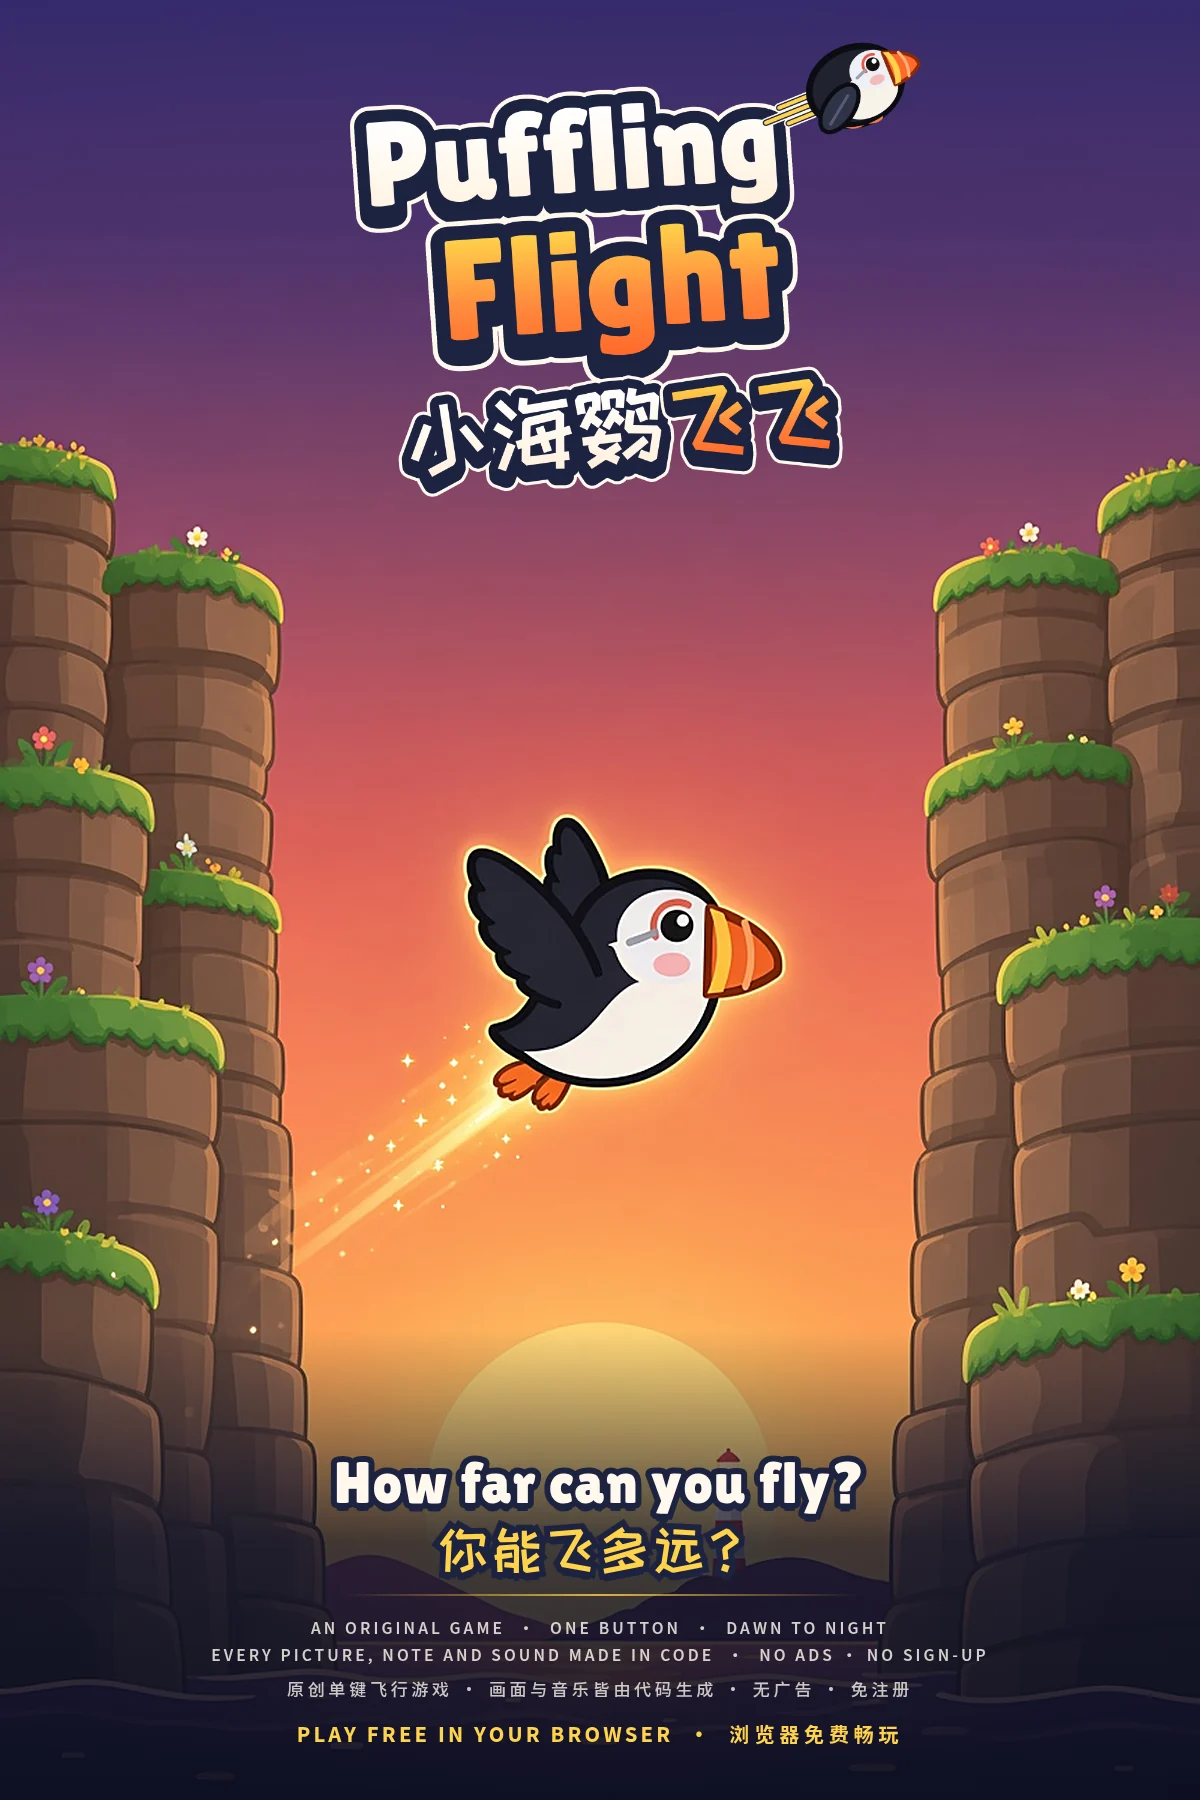
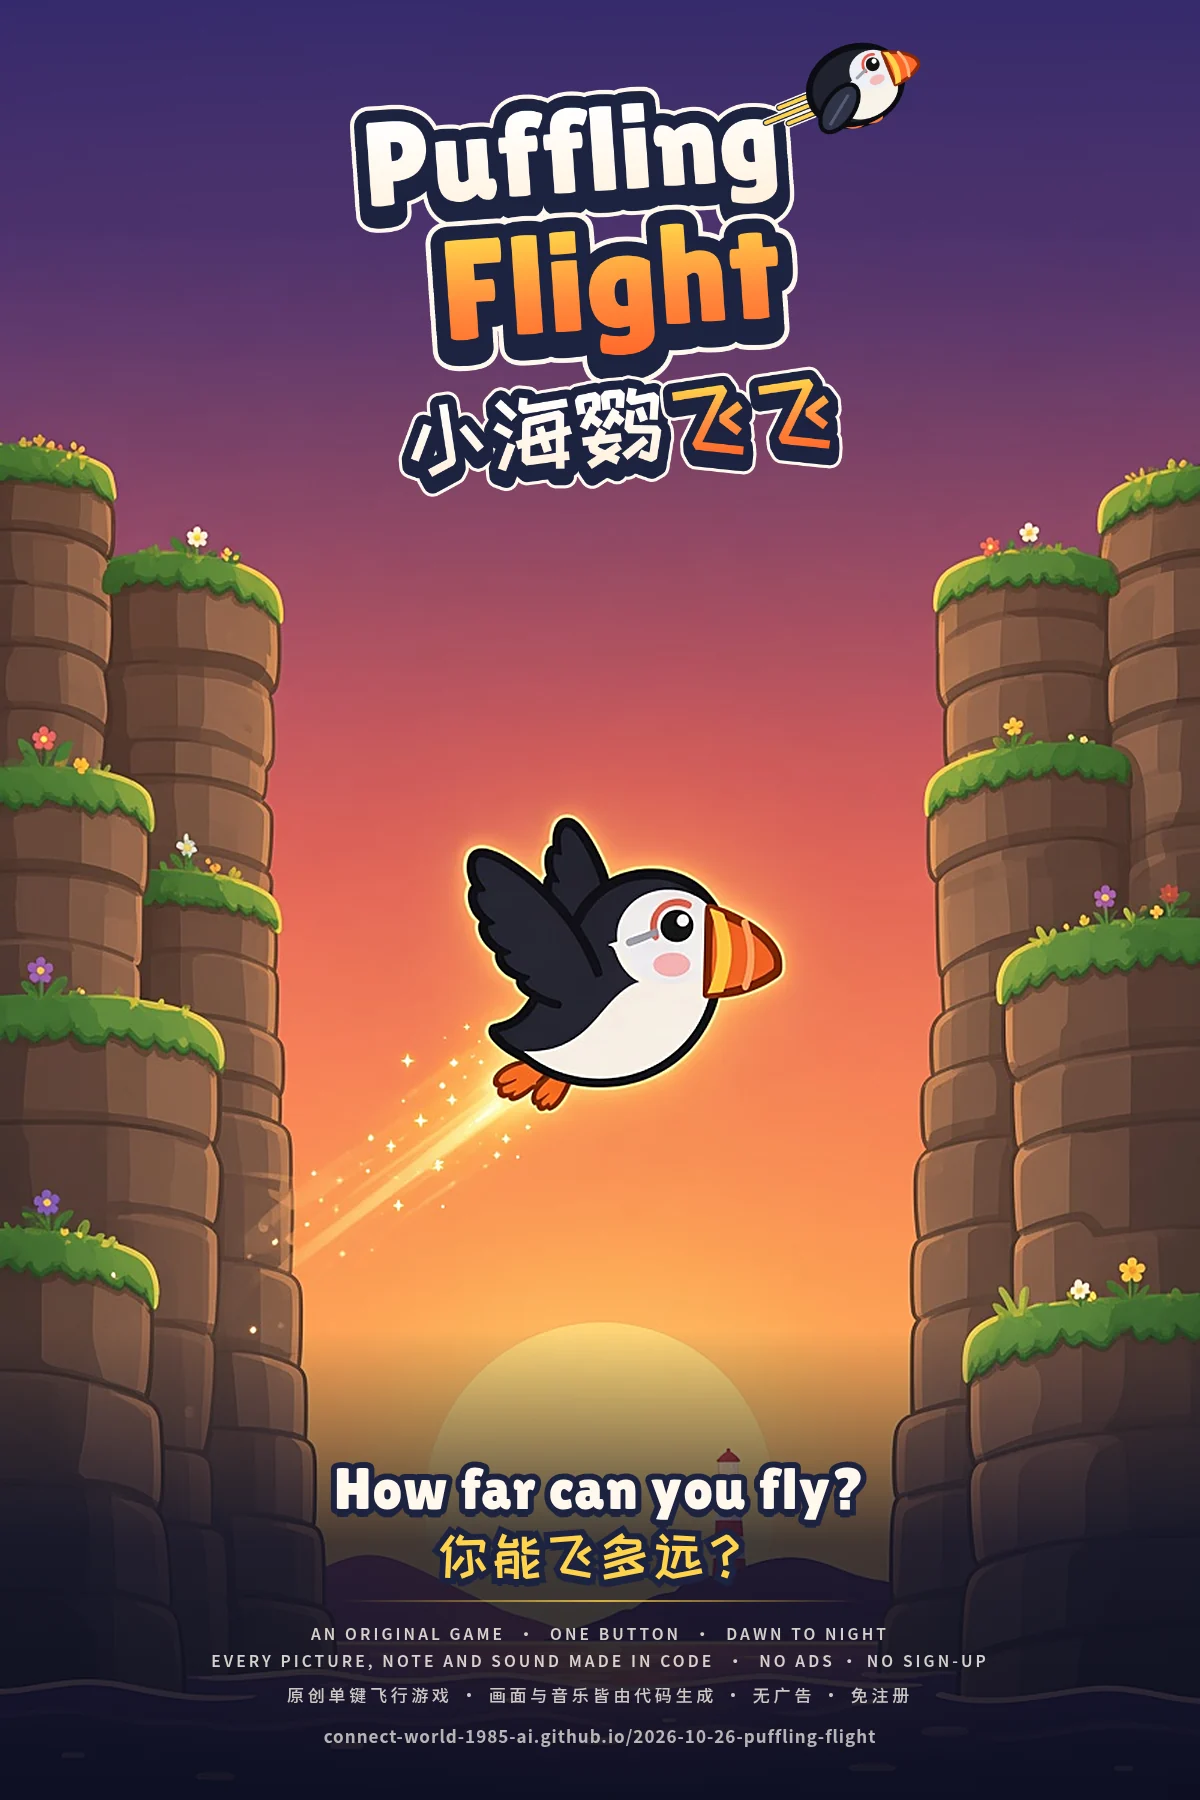
Restore the original address-bearing posters 01 and 03 from 02776dc
- media/posters/poster-01-key-art and poster-03-now-playing (.webp + .jpg) restored byte-for-byte from 02776dc
- 立即游玩 site text unchanged; trailer unchanged (its end card never had an address)
- README GAPS 14 updated; checks re-run (acceptance 26/26, unit 12/12, e2e 13/13)

Changed region(s): [[0.2467, 0.8089, 0.7708, 0.9956], [0.7708, 0.9022, 0.8017, 0.9333], [0.185, 0.9022, 0.2158, 0.9333]]

diff --git a/README.md b/README.md
@@ -138,7 +138,7 @@ extracted by the plan's own extractor (`CHECKSUMS_OK 18`). Differences:
 | 11 | **Wording mismatch (resolved):** the designer's end card `tc-05` and `WEBSITE.md` read **Play now / 立即游玩**; the owner's brief said **Play now / 立即开玩** | Resolved by the project manager's decision (21:27): **立即游玩 everywhere**. The website buttons and the top-bar short label now read 立即游玩 / 游玩, matching `tc-05` in the trailer (not re-rendered). The game in `play/` never used 开玩 |
 | 12 | `WEBSITE.md` asks for a 1920×1080 hero video plus a 1280×720 one | Only 1280×720 is rendered (the owner's 720p cap); the one file serves every screen |
 | 13 | `WEBSITE.md` links the lightbox download to the 1.1–1.4 MB `.png` poster masters | Linked the pack's optimised `.jpg` (184–228 KB); the page shows the `.webp` (109–141 KB). The `.png` masters stay in the pack only |
-| 14 | The first poster export printed the GitHub Pages address on poster-01 and poster-03, and the trailer's end card had an optional address line | **Resolved:** the designer re-issued poster-01 and poster-03 (21:42) with the line 'PLAY FREE IN YOUR BROWSER · 浏览器免费畅玩' instead of the address; copied into `media/posters/` (`.webp` + `.jpg`). poster-02 never had an address and is unchanged. No poster, title card, logo, hero still or website text shows a URL |
+| 14 | The designer's poster-01 and poster-03 print the site address `connect-world-1985-ai.github.io/2026-10-26-puffling-flight`; after the GitHub suspension they were briefly swapped for a URL-free re-export (855b171) | **Reverted** on the owner's instruction (via the project manager, 2026-10-31): the original address-bearing poster-01 and poster-03 (`.webp` + `.jpg`) are restored byte-for-byte from 02776dc. poster-02 never had an address. The cinematic trailer's end card never carried an address (the optional line was left out of the shot list before it was first rendered), so there is nothing to restore there |
 | 14b | `ART.md` row 26 now asks the end card to carry the free-in-browser line instead of the address | Trailer **not re-rendered** (project manager's decision): the address line was already left out. The designer's `tc-05` end card itself already prints 'FREE IN YOUR BROWSER · 浏览器免费畅玩' (visible in `verify/frames/cine-37.0-endcard.jpg`); only the extra small line under it, from row 26, is missing |
 | 15 | The hero loops the whole cinematic cut, gameplay HUD included, behind the centred logo | A soft radial veil over the video behind the title, on top of the pack's gradient scrim; poster frame is still-01, never still-07 (still-07 only in the gallery and in the trailer's drop, as in the shot list) |
 | 16 | "▶ Watch trailer" target | Opens the cinematic cut with sound in a `<dialog>` lightbox (hero pauses, resumes on close) |
